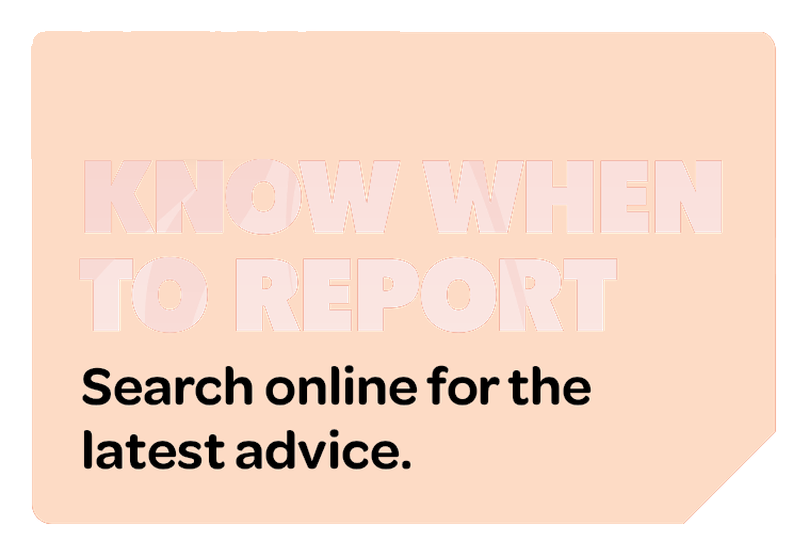
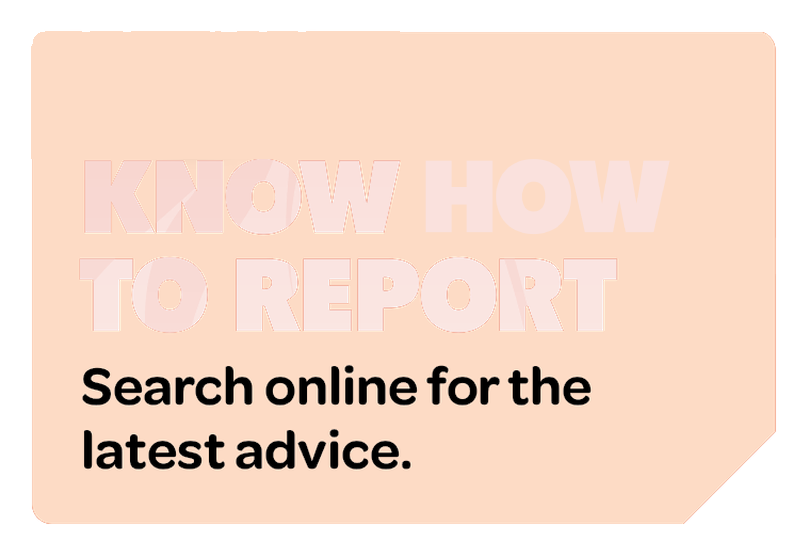
Update frame 4 headline copy: "Know when to report" -> "Know how to report"
Rebuilt line 1 of the card's knockout headline using the Tondu glyphs from
the client-approved artwork, and updated the image alt text to match.

diff --git a/index.html b/index.html
@@ -196,7 +196,7 @@
 
     <div class="frame" id="frame4">
       <img class="bg" src="images/bg-feather.jpg" alt="">
-      <img class="el card4body" src="images/el-frame4_cardbody.png" alt="Know when to report. Search online for the latest advice.">
+      <img class="el card4body" src="images/el-frame4_cardbody.png" alt="Know how to report. Search online for the latest advice.">
       <img class="el card4icon" src="images/el-frame4_icon.png" alt="">
     </div>
 
